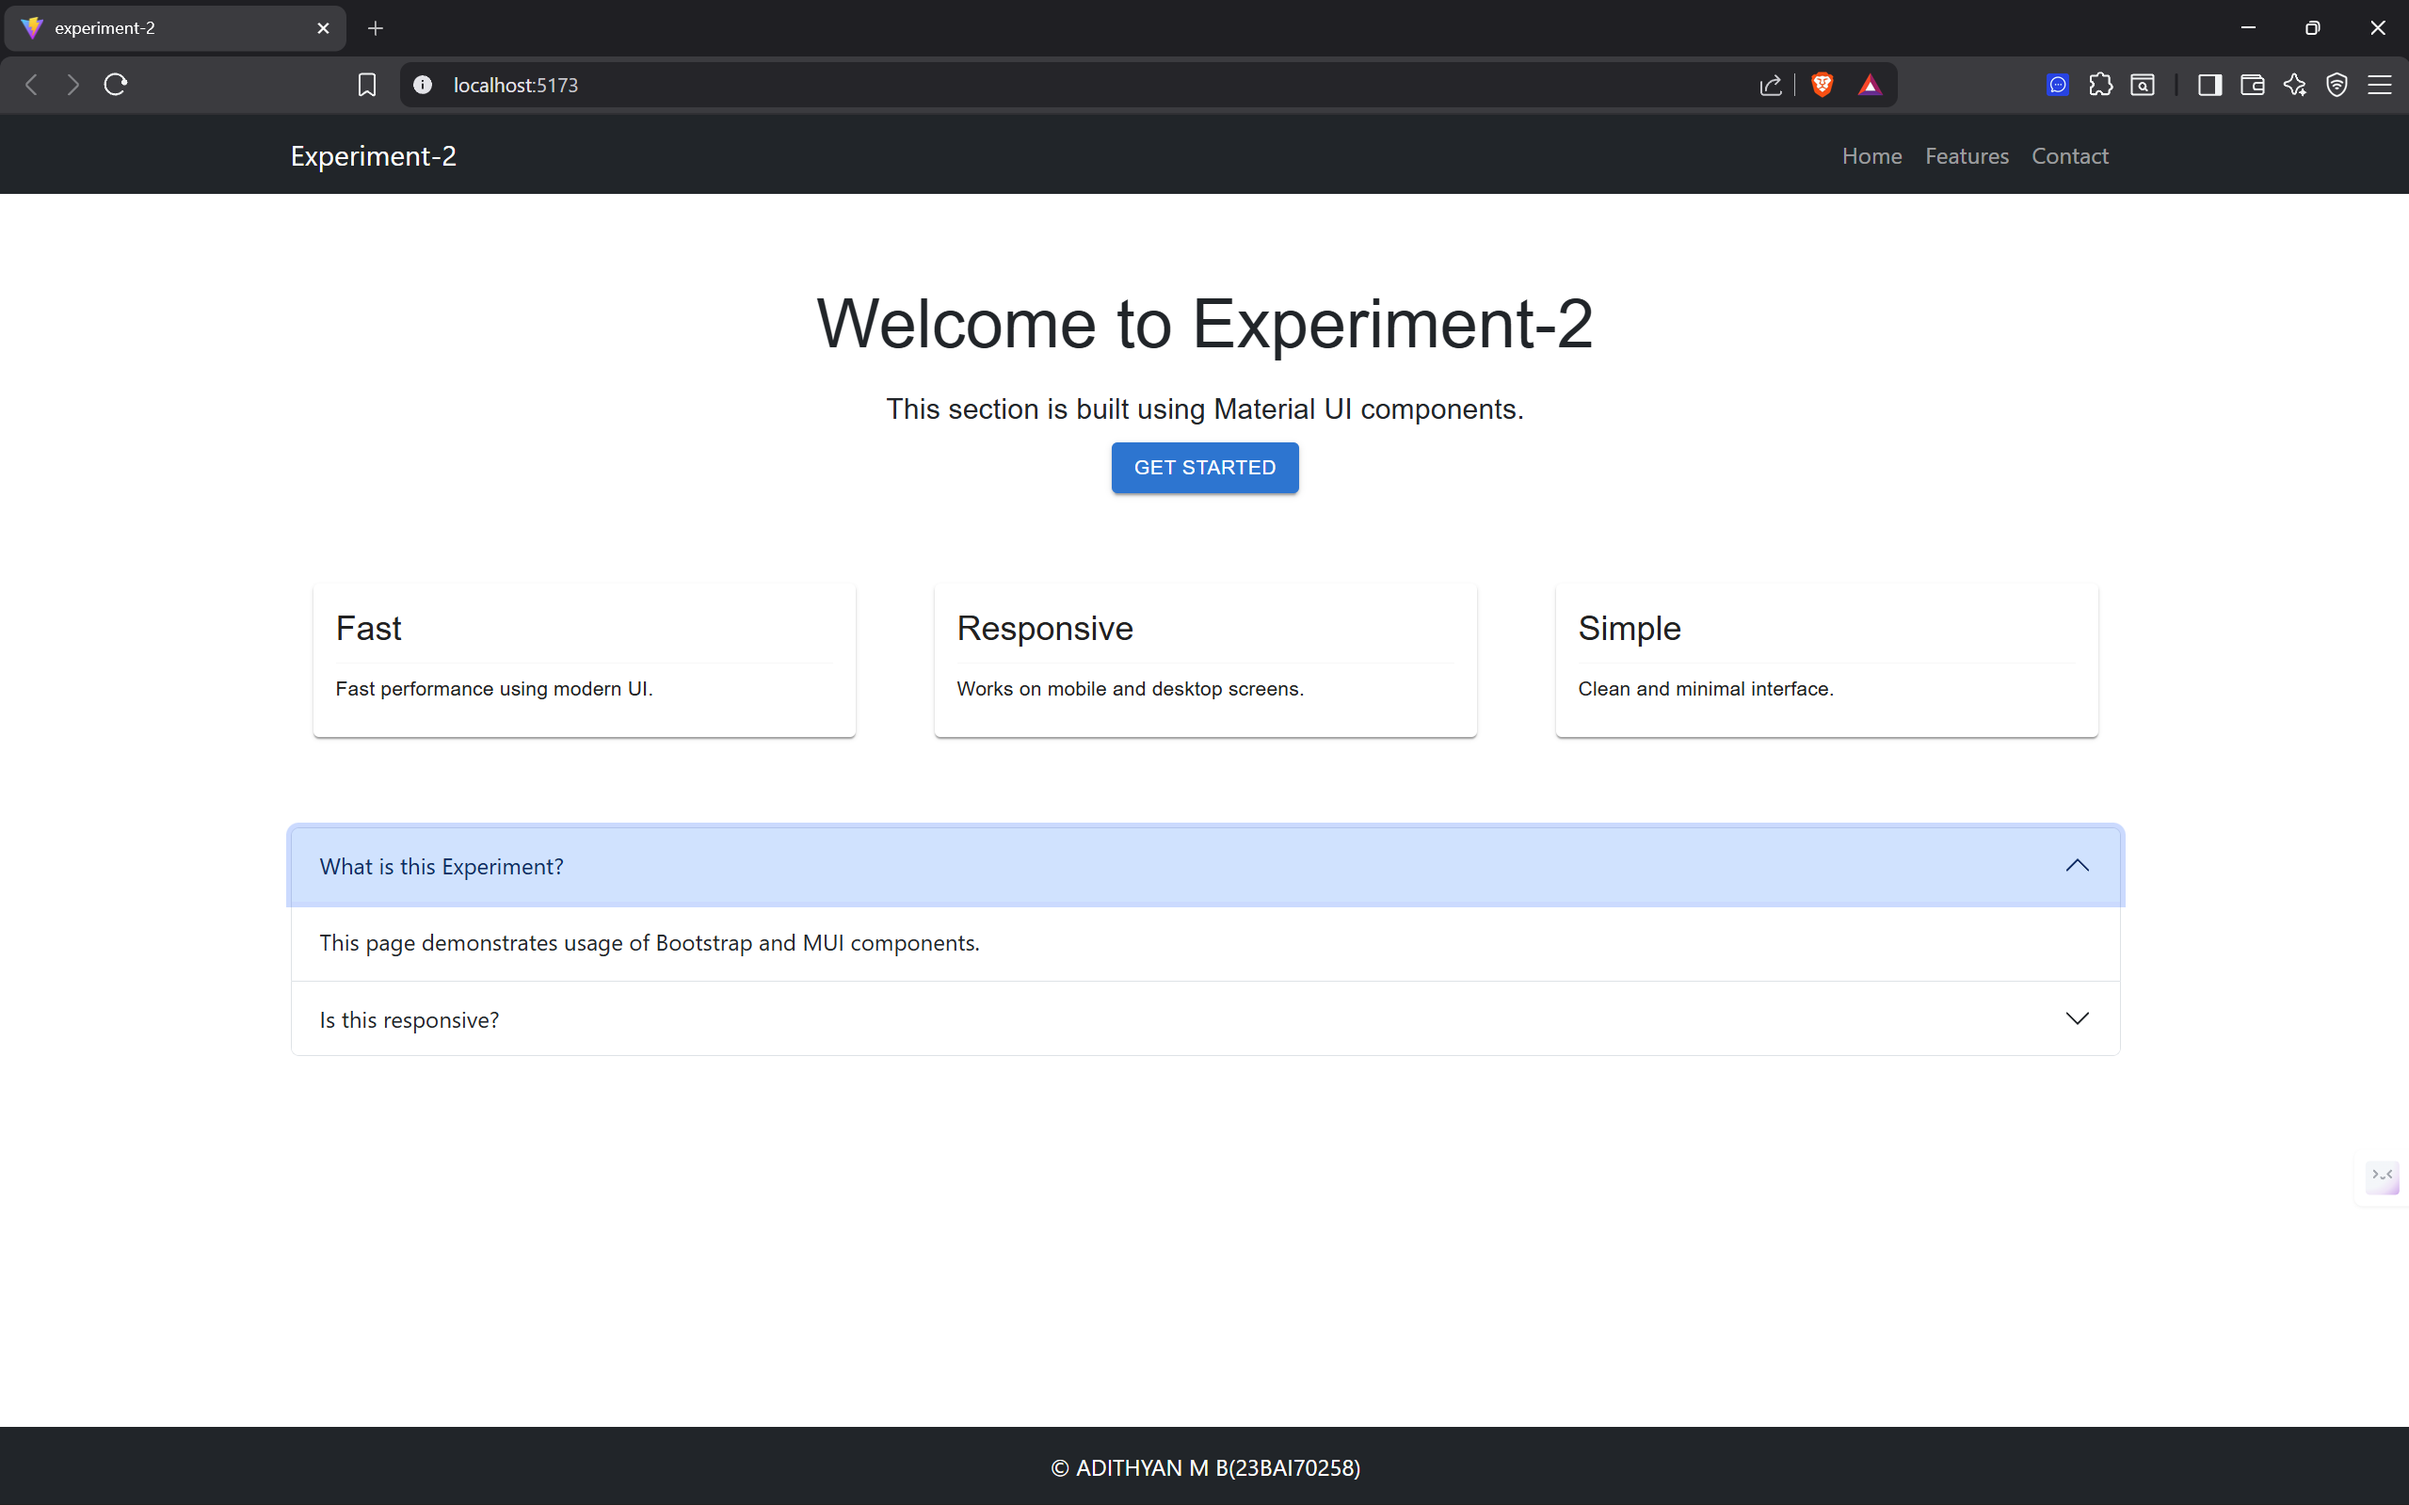
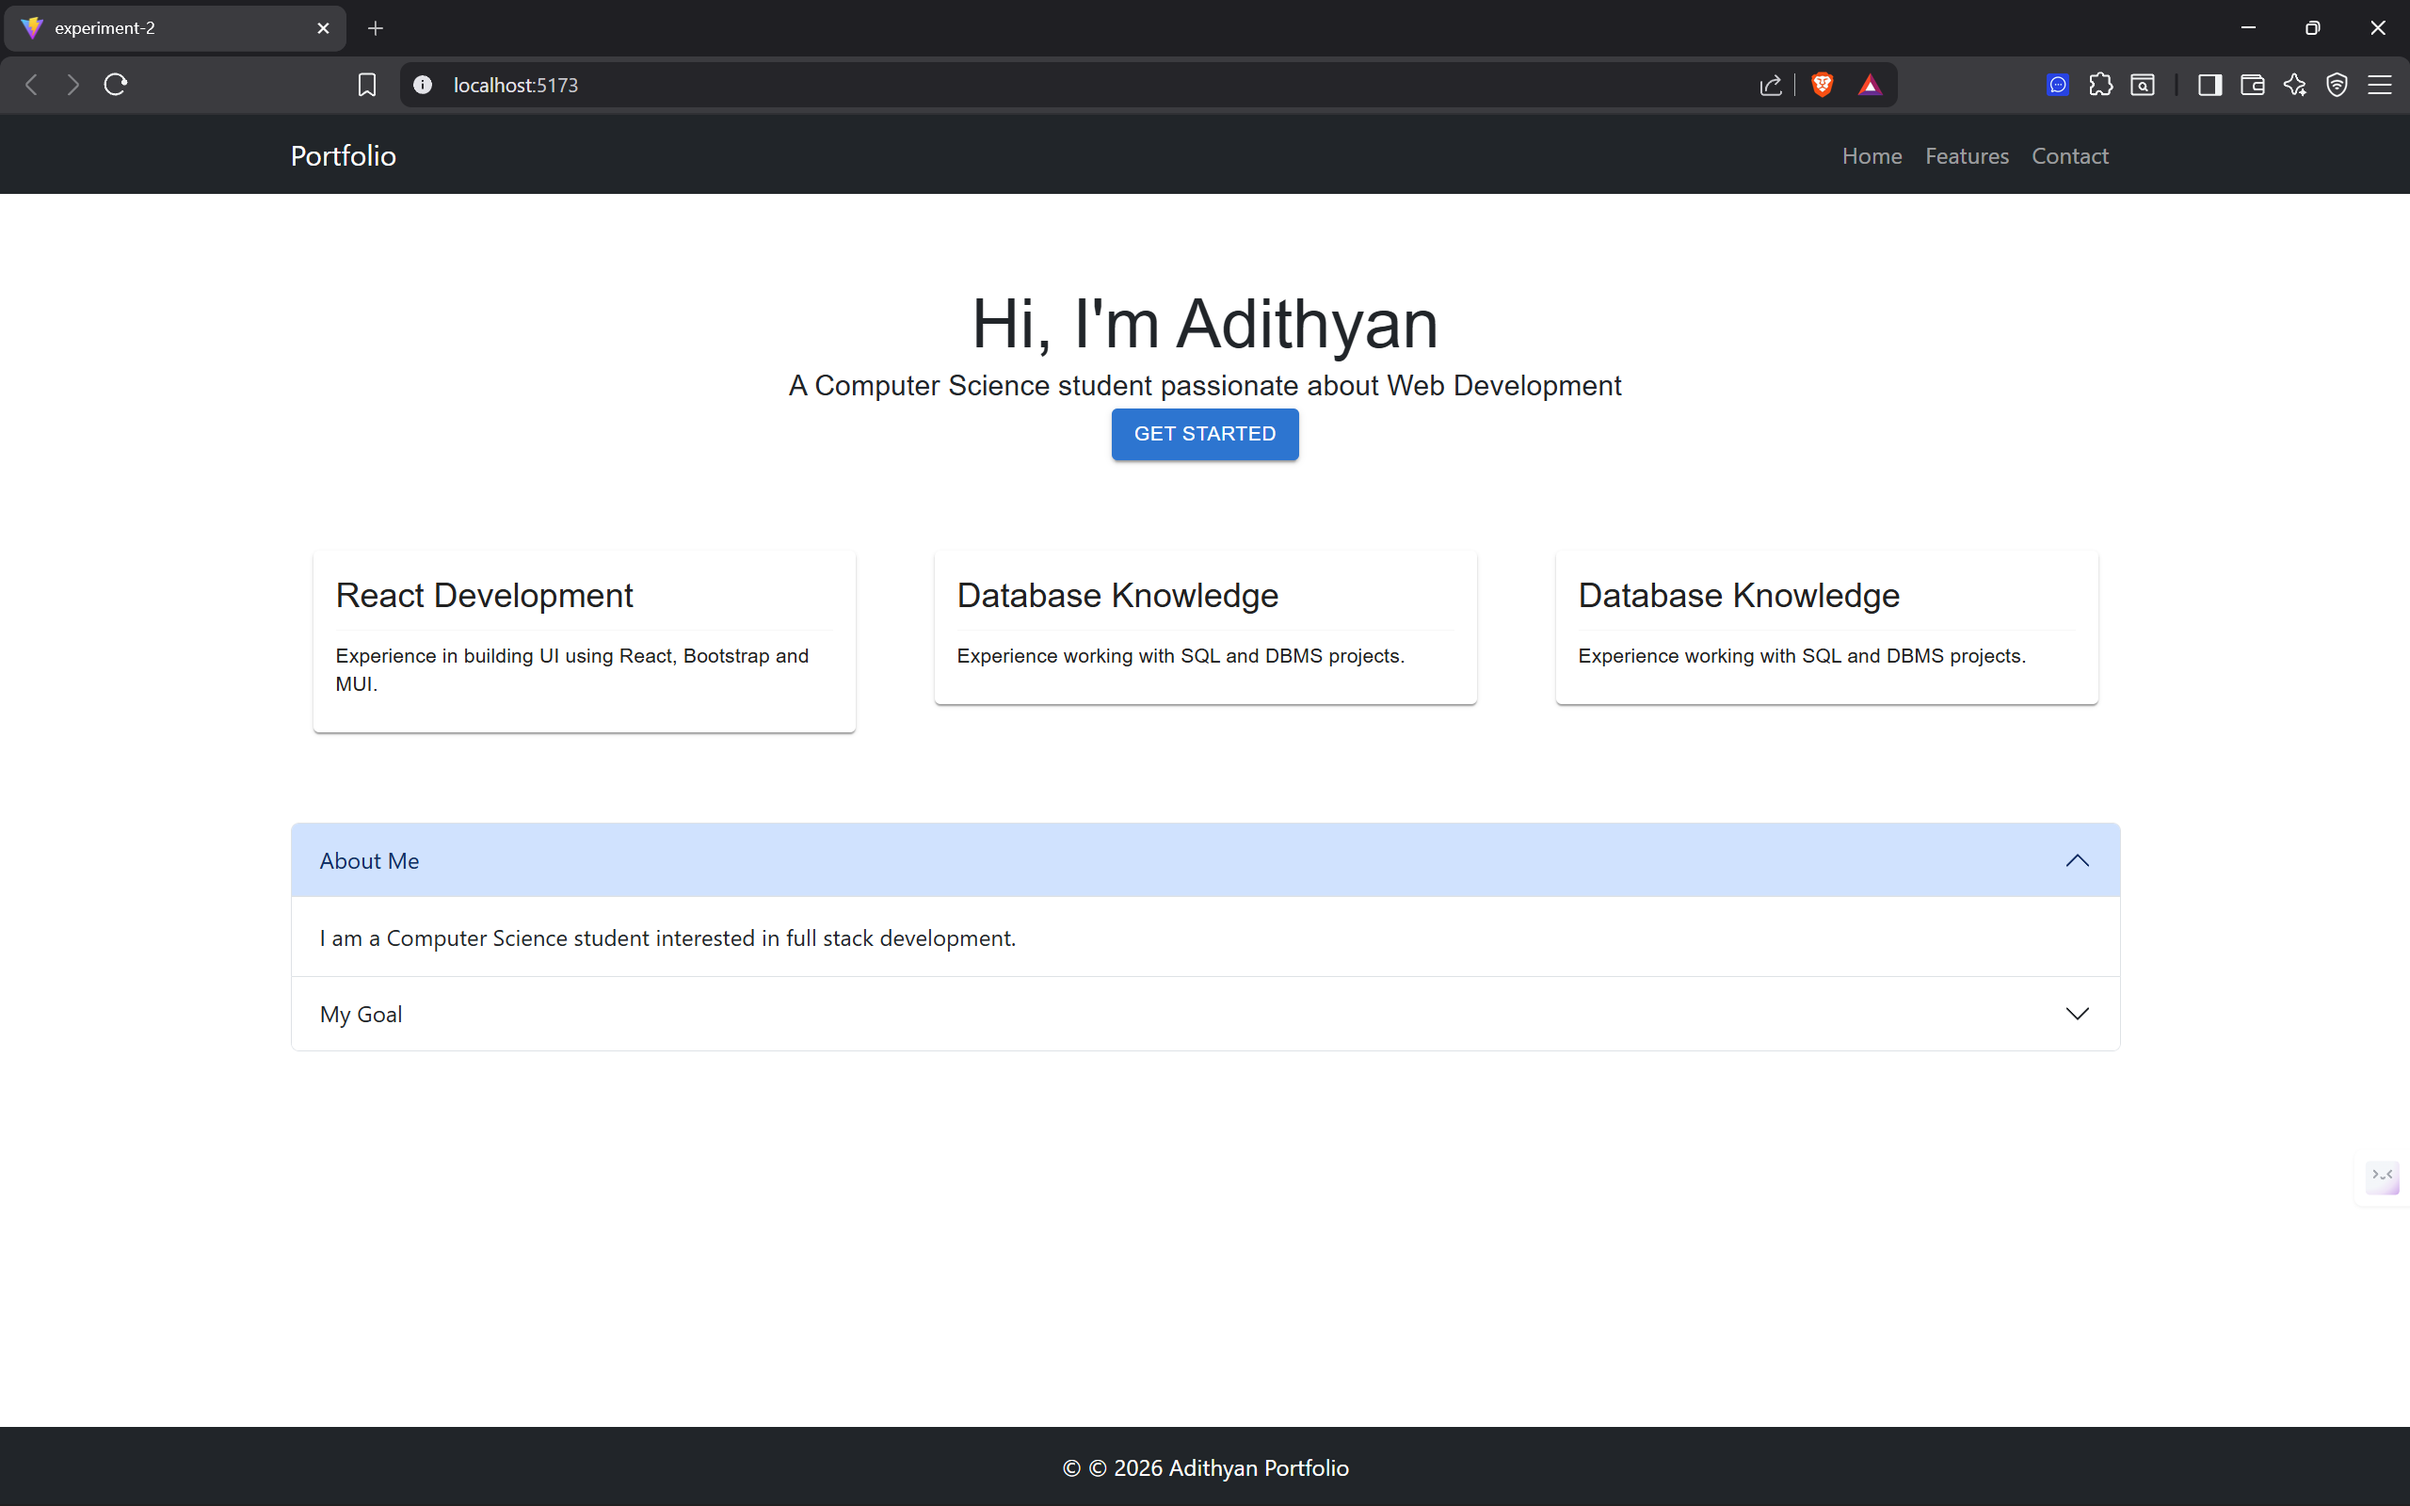
Adding Experiment-2

diff --git a/Experiment-2/src/pages/Home.jsx b/Experiment-2/src/pages/Home.jsx
@@ -19,20 +19,20 @@ export default function Home() {
           <Row>
             <Col md={4}>
               <CardComponent
-                title="Fast"
-                description="Fast performance using modern UI."
+                title="React Development"
+                description="Experience in building UI using React, Bootstrap and MUI."
               />
             </Col>
             <Col md={4}>
               <CardComponent
-                title="Responsive"
-                description="Works on mobile and desktop screens."
+                title="Database Knowledge"
+                description="Experience working with SQL and DBMS projects."
               />
             </Col>
             <Col md={4}>
               <CardComponent
-                title="Simple"
-                description="Clean and minimal interface."
+                title="Database Knowledge"
+                description="Experience working with SQL and DBMS projects."
               />
             </Col>
           </Row>
@@ -42,17 +42,17 @@ export default function Home() {
           <Accordion>
             <Accordion.Item eventKey="0">
               <Accordion.Header>
-                What is this Experiment?
+                About Me
               </Accordion.Header>
               <Accordion.Body>
-                This page demonstrates usage of Bootstrap and MUI components.
+                I am a Computer Science student interested in full stack development.
               </Accordion.Body>
             </Accordion.Item>
 
             <Accordion.Item eventKey="1">
-              <Accordion.Header>Is this responsive?</Accordion.Header>
+              <Accordion.Header>My Goal</Accordion.Header>
               <Accordion.Body>
-                Yes. Bootstrap grid ensures responsive layout.
+                To become a skilled software developer and build impactful projects.
               </Accordion.Body>
             </Accordion.Item>
           </Accordion>

diff --git a/Experiment-2/src/components/HeroSection.jsx b/Experiment-2/src/components/HeroSection.jsx
@@ -3,12 +3,13 @@ import { Typography, Button, Container } from '@mui/material';
 export default function HeroSection() {
   return (
     <Container sx={{ textAlign: 'center', mt: 8 }}>
-      <Typography variant="h3" gutterBottom>
-        Welcome to Experiment-2
-      </Typography>
-      <Typography variant="h6" gutterBottom>
-        This section is built using Material UI components.
-      </Typography>
+      <Typography variant="h3">
+  Hi, I'm Adithyan
+</Typography>
+<Typography variant="h6">
+  A Computer Science student passionate about Web Development
+</Typography>
+
       <Button variant="contained">Get Started</Button>
     </Container>
   );

diff --git a/Experiment-2/src/components/Navbar.jsx b/Experiment-2/src/components/Navbar.jsx
@@ -6,7 +6,7 @@ export default function CustomNavbar() {
   return (
     <Navbar bg="dark" variant="dark">
       <Container>
-        <Navbar.Brand href="#home">Experiment-2</Navbar.Brand> 
+        <Navbar.Brand href="#home">Portfolio</Navbar.Brand> 
         <Nav>
           <Nav.Link href="#home">Home</Nav.Link>
           <Nav.Link href="#features">Features</Nav.Link>

diff --git a/Experiment-2/src/components/Footer.jsx b/Experiment-2/src/components/Footer.jsx
@@ -1,7 +1,7 @@
 export default function Footer() {
   return (
     <div className="bg-dark text-white text-center p-3 mt-5">
-      © ADITHYAN M B(23BAI70258)
+      © © 2026 Adithyan Portfolio
     </div>
   );
 }
